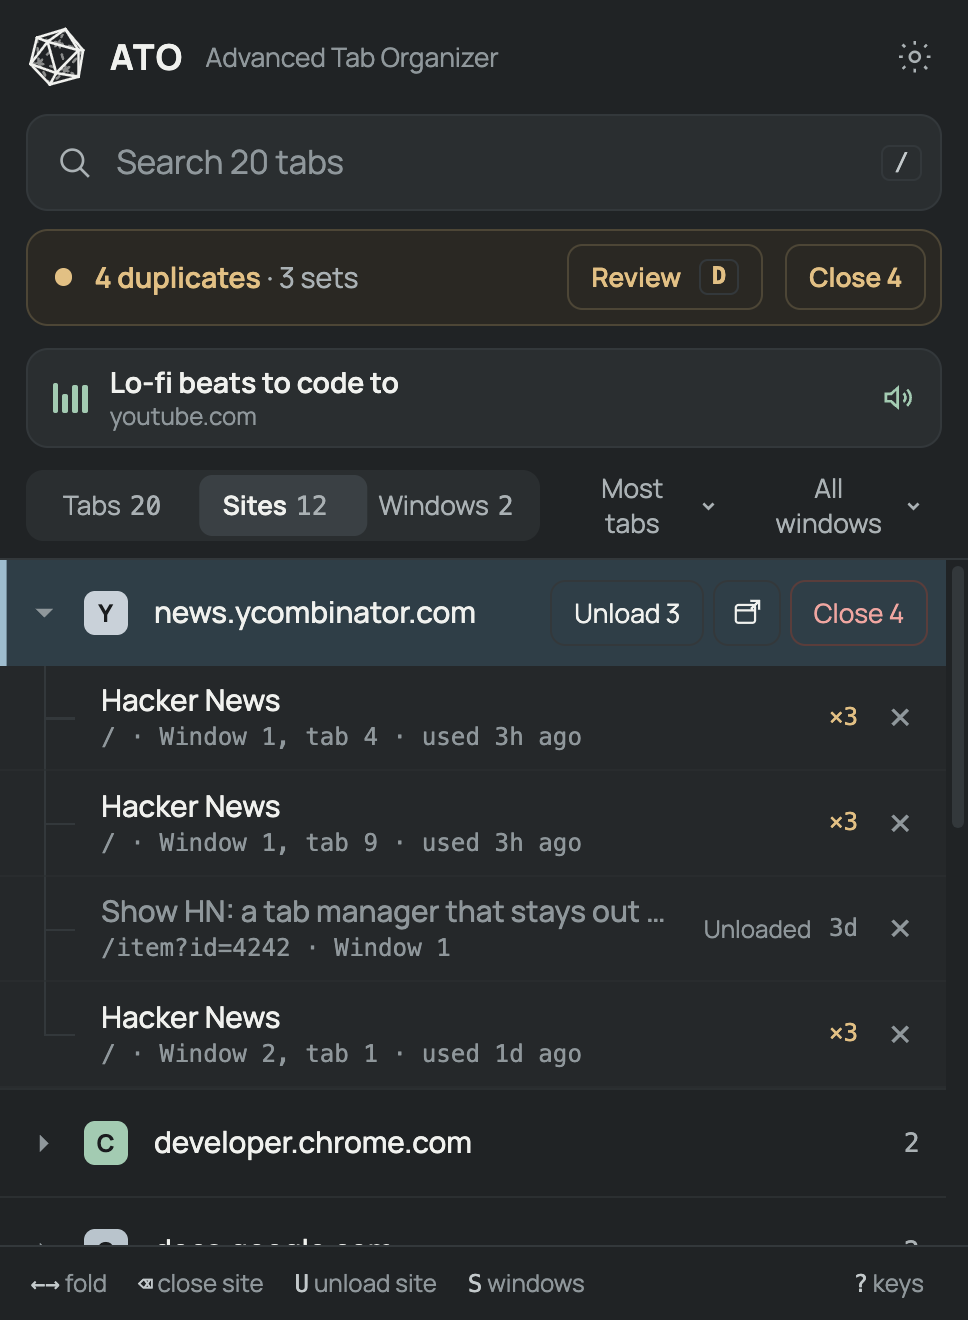
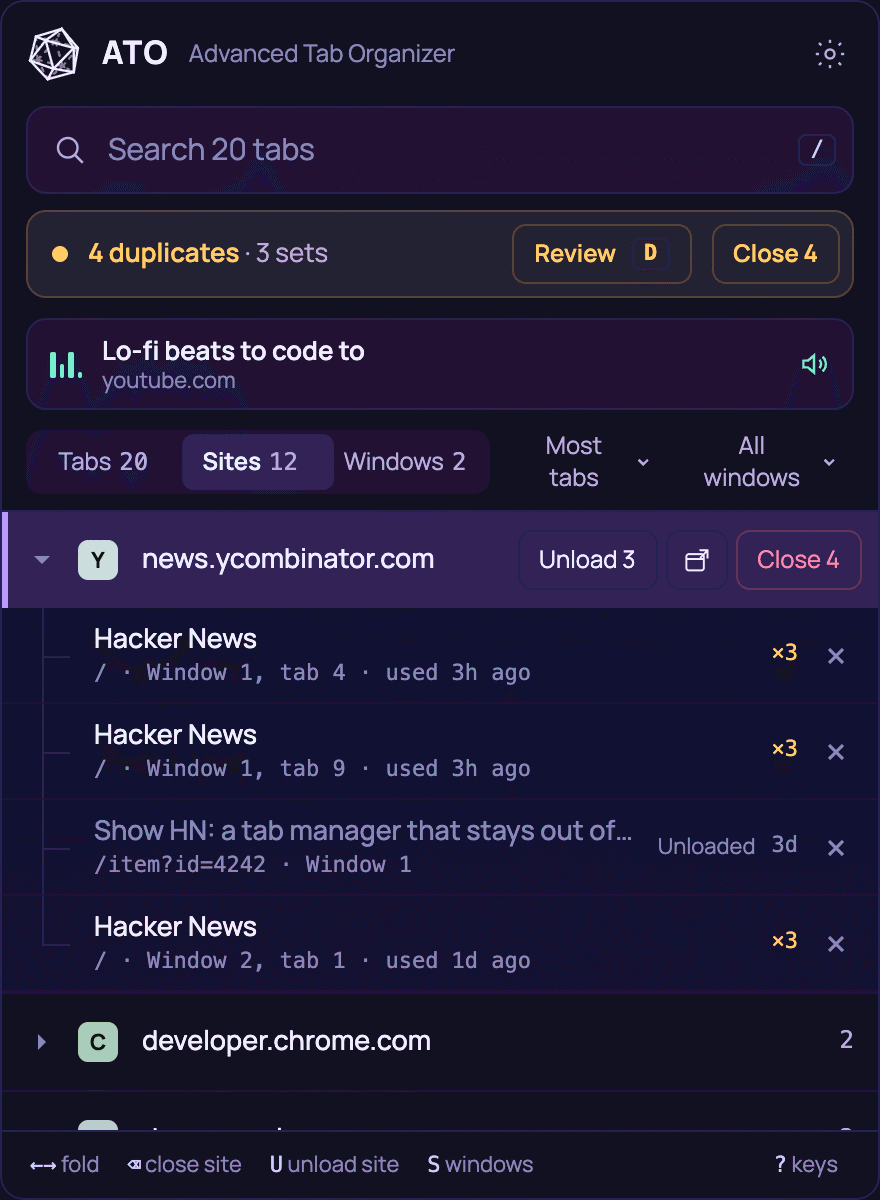
docs: README built around what ATO is for, with fresh screenshots of 3.0.1
New captures from the dev gallery in a throwaway headless Chrome 158 (2x): Cyber tabs and duplicate review, Sites (Nebula), Windows (Paper), the theme picker, a search GIF typed key by key, and the settings logo spinning after a real drag. Stills are 256-colour PNGs (visually lossless here). Screenshots the README no longer uses are removed; the v3.0.0 tag keeps them.

diff --git a/README.md b/README.md
@@ -1,39 +1,96 @@
 # ATO - Advanced Tab Organizer
 
-Kill duplicate tabs instantly. Stay focused.
-
 <p align="center">
-  <img src="docs/screenshots/popup-dark.png" alt="ATO popup: search, the duplicates bar, Now playing, and the tab list" width="440">
+  <img src="docs/screenshots/cyber-tabs.png" alt="ATO in the Cyber theme: search, the duplicates bar, Now playing and the tab list, on a neon grid" width="360">
+  <img src="docs/screenshots/cyber-review.png" alt="Duplicate review in Cyber: each page with its copies, a green KEEP or red CLOSE on each, and the reason a copy stays (pinned, current tab, oldest)" width="360">
 </p>
 
-ATO is a Chrome extension for people with too many tabs. Open it with **⌘U** (Mac) or **Ctrl+U** (Windows/Linux), see how many duplicates you have, and close them, safely, in one go. Everything runs in your browser: no analytics, tracking or backend, and your tabs never leave it.
+I keep far too many tabs open. The same docs page ends up open three times in two windows, a video plays somewhere I can't find, and Chrome's tab strip turns into a row of identical favicons. ATO is the popup I built for that: press **⌘U** (Ctrl+U on Windows and Linux), see everything across every window, and clean it up from the keyboard without losing anything I meant to keep.
 
-Requires **Chrome 157 or newer**.
+It's a Chrome extension, it needs **Chrome 157 or newer**, and it runs entirely in your browser: no analytics, tracking or backend.
 
-## What it does
+## What I use it for
 
-- **Duplicates, safely.** The bar at the top counts extra copies; **Close N** closes them, or **Review** shows each page with its copies, which one stays and why. The current tab, tabs playing sound, tabs in a split view, pinned tabs and (optionally) grouped tabs are never closed. Flip any copy between keep and close, close one page's copies, or all of them.
-- **Matching your way.** Copies are the same URL, or the same URL ignoring its `#hash`, its `?query`, or both.
-- **Tabs, Sites and Windows.** Every tab by recency, title or site; every site with its tabs; every window with a map of its tab strip and its tab groups. Merge a window into this one, move a site or a selection to a new window, unload what you're not using.
-- **Search.** Type to search titles and URLs across every window. `"exact"` matches whole words; `url:`, `title:` and `dupe:` narrow it.
-- **Now playing.** Tabs making sound, with mute.
-- **Undo.** Bring back what you closed, however many tabs: recent ones with their history, the rest reopened where they were, in their tab group.
-- **Toolbar badge** with the duplicate count (or all tabs), in your colour.
-- **Tab right-click menu:** close duplicates of this tab, or other tabs from this site. Open the popup within a minute to undo it.
-- **Nine themes**, light and dark, or follow your system.
+**"I have the same page open five times."** The bar at the top counts the extra copies. **Close N** closes them; **Review** first shows each page with its copies, which one stays and why (current tab, playing, pinned, in a split view, or simply the oldest). Flip any copy between keep and close, or close one page's copies at a time. What counts as "the same page" is up to you: the whole URL, or ignoring its `#hash`, its `?query`, or both.
 
-## Screenshots
+**"Where was that tab?"** Start typing. Search covers titles and URLs in every window and highlights what matched; ↑↓ and ↵ take you there. `"quotes"` match whole words, and `url:`, `title:` and `dupe:` narrow the search. Whatever it finds can be closed, unloaded or moved to a new window in one go.
 
 <p align="center">
-  <img src="docs/screenshots/duplicate-review.png" alt="Duplicate review: each page with its copies, keep or close" width="360">
-  <img src="docs/screenshots/windows.png" alt="Windows view: a map of each window's tab strip and groups" width="360">
-</p>
-<p align="center">
-  <img src="docs/screenshots/sites.png" alt="Sites view: a site opened to show its tabs" width="360">
-  <img src="docs/screenshots/popup.png" alt="Paper theme" width="360">
+  <img src="docs/screenshots/search.gif" alt="Typing “chrome” filters the list across both windows with matches highlighted; ↓ moves the cursor; then url:github turns url: into a chip and searches URLs only" width="400">
 </p>
 
-[Settings page](docs/screenshots/settings.png).
+**"Which tab is making that noise?"** **Now playing** lists tabs playing sound, in any window, with a mute button. Its equalizer bars rest while a tab is muted.
+
+**"My windows are a mess."** **Sites** groups tabs by site, so a whole site can be closed, unloaded or moved to its own window. **Windows** shows each window as a little map of its tab strip: one dot per tab, tab groups outlined in their colour, collapsed groups as a pill. From there you can focus a window, merge it into the current one (groups stay groups), or close it, and protected tabs stay.
+
+<p align="center">
+  <img src="docs/screenshots/sites.png" alt="Sites view in the Nebula theme: news.ycombinator.com opened to show its tabs, with Unload, Move and Close for the whole site" width="360">
+  <img src="docs/screenshots/windows.png" alt="Windows view in the Paper theme: each window with a dot map of its tab strip, tab groups outlined, and Focus, Merge and Close" width="360">
+</p>
+
+**"Chrome is using too much memory."** **Unload** (U) discards a tab, a site, a selection or search results: they stay in the strip and reload when you visit them.
+
+**"I want to do this without the mouse."** Everything has a key. ↑↓ wrap around, ←→ fold, ⌫ closes whatever the cursor is on, Space selects, ⌘D opens the duplicate review and ⌘D again closes them all, and `?` lists every shortcut. The footer always shows the keys that work right now.
+
+Also: a toolbar badge with the duplicate count (or all tabs) in your colour, and a tab right-click menu to close the duplicates of a tab or the other tabs from its site.
+
+## Nine themes, and one that glows
+
+<p align="center">
+  <img src="docs/screenshots/themes.png" alt="The settings page's theme picker: System, Graphite, Paper, Cyber (selected, glowing), Nebula, Ember, Neon, Lagoon, Sakura and Dune, each as a miniature popup in its own colours" width="480">
+</p>
+
+Graphite and Paper are the quiet ones, and **System** switches between them with your OS. Nebula, Ember, Neon, Lagoon, Sakura and Dune each have their own palette, and the picker previews every theme as a tiny popup in its own colours.
+
+**Cyber** goes further than a palette: neon on near-black over a faint grid, glowing edges, text and focus rings, scanlines across the popup, and a pulsing dot on the duplicates bar. All of that is plain CSS scoped to the theme, and it respects reduced motion.
+
+<img src="docs/screenshots/logo-spin.gif" alt="The ATO logo, a wireframe icosahedron with solid front edges and dashed hidden edges, spinning after a drag and slowing down" width="192" align="right">
+
+The logo on the settings page is a real 3D icosahedron built from 20 CSS triangles, each placed with a `matrix3d`. Edges facing you are solid, hidden edges are dashed. It turns slowly on its own; drag it to spin it, let go mid-swipe and it keeps going, easing back to the slow turn over a few seconds. The small logo in the popup's header is a static SVG rendered from the same geometry.
+
+<br clear="right">
+
+## Built to stay fast
+
+ATO is vanilla TypeScript with no UI framework, so keeping it quick with thousands of tabs is my job:
+
+- **A custom DOM morph** (`ui/morph.ts`) patches the live DOM in place by key, so focus, scroll position, typing and CSS transitions survive every render.
+- **A cursor fast path:** moving the cursor (↑↓ or hovering) changes only two rows, so `app.ts` patches those two instead of rendering.
+- **Memoized view models:** states are immutable, so each one's model is derived once and cached.
+- **Drawing less:** search draws the first 150 results (actions still cover all of them), and long lists use `content-visibility`.
+- **Benchmarks:** `npm run perf` times every hot path at 500 to 5,000 generated tabs. At 2,000 tabs, moving the cursor costs about 2 ms and a keystroke in search about 7 ms of script.
+
+Measured in real Chrome at 2,000 tabs, ↓ renders within a frame (median 7.6 ms, p95 11 ms). Typing in search doesn't yet: about 28 ms per keystroke, and more on a slow machine or at 5,000 tabs. The traces point at re-parsing icon SVGs and URL parsing, and fixing that is planned for 3.1. The numbers and traces are in [docs/v3-status.md](docs/v3-status.md#301-measurements).
+
+## Careful about what it closes
+
+Closing the wrong tab is the one thing a tab manager must not do, so the rules live in a small pure core and are tested as properties rather than examples:
+
+- The current tab of a window, a tab playing sound and a tab in a split view are never closed by cleanup; pinned and grouped tabs are protected too, by default.
+- Every duplicate set keeps a copy, and only real duplicates under your matching are closed.
+- The 180 ms close animation is decorative: right before removing anything, ATO reads Chrome's tabs again and rechecks every rule. A tab that started playing in the meantime stays, and so does a copy of a page whose planned survivor you closed.
+- **Undo** (⌘Z) brings back what was closed, however many tabs: the last 25 from Chrome's session history, with their back/forward history; older ones are reopened in their window, position and tab group. It runs in the background, so closing the popup doesn't interrupt it.
+
+The safety rules are [fast-check](https://fast-check.dev) properties over generated browser states. Each one also gets a mutation check: remove the guard and confirm the property fails. The undo and close paths were also checked in a real Chrome with a throwaway profile.
+
+## How it works
+
+- **Pure core** (`src/core/`): plain functions over plain data, no DOM or Chrome. It decides what may be closed (duplicate planning, URL matching, protection) and holds search, settings and the badge count.
+- **State machine** (`src/ui/update.ts`): `update(state, action)` returns the next state and a list of effects (close, restore, move…). It never touches the browser itself.
+- **Rendering:** `deriveModel` turns the browser snapshot and UI state into a view model, `renderPopup` draws it as a pure function, and `morph` patches the page.
+- **Chrome integration:** only `src/ui/chrome-*.ts` and the service worker call `chrome.*`. Every close and undo runs in the worker through one path. The popup talks to Chrome through a `BrowserPort` interface, so the dev gallery and the tests run it over an in-memory `FakeBrowser`.
+
+```
+src/
+├── manifest.json
+├── background/worker.ts   # badge, tab right-click menu, closing and undo
+├── core/                  # pure rules: duplicates, matching, search, settings, badge, menu
+├── ui/                    # popup state machine, render, Chrome adapters, settings page
+├── popup/ options/        # extension entry points
+└── dev/                   # gallery fixtures, fake browser, perf harness
+```
+
+Details, including how closing and undo work: [docs/architecture.md](docs/architecture.md).
 
 ## Keyboard
 
@@ -71,32 +128,12 @@ Then in Chrome: `chrome://extensions` → **Developer mode** → **Load unpacked
 ## Development
 
 ```bash
-npm run dev     # live gallery of every popup state + the settings page (Vite)
-npm test        # Vitest, including fast-check properties for the safety rules
+npm run dev     # live gallery: every popup state as a working popup, plus the settings page
+npm test        # Vitest, including the fast-check properties
 npm run perf    # timings at 500–5,000 tabs
 ```
 
-## How it works
-
-Vanilla TypeScript, built with Vite, no UI framework.
-
-- **Pure core** (`src/core/`): plain functions over plain data, no DOM or Chrome. It decides what may be closed (duplicate planning, URL matching, protection) and also holds search, settings and the badge count.
-- **State machine** (`src/ui/update.ts`): `update(state, action)` returns the next state and a list of effects (close, restore, move…). It never touches the browser itself.
-- **Rendering**: `deriveModel` turns the browser snapshot and UI state into a view model, `renderPopup` draws it as a pure function, and `morph` patches the live DOM in place, keeping focus and scroll.
-- **Chrome integration**: only `src/ui/chrome-*.ts` and the service worker call `chrome.*`. Every close and undo runs in the worker through one path, which rechecks protection on Chrome's current tabs right before removing anything. The popup talks to Chrome through a `BrowserPort` interface, so the gallery and tests run it over an in-memory `FakeBrowser`.
-- **Testing**: Vitest, with fast-check properties for the safety rules (never close the current tab, a playing tab or a split view; every duplicate set keeps a tab; only real duplicates close; protected tabs stay; undo brings each tab back at most once). Each property has a mutation check: remove the guard and the property fails.
-
-```
-src/
-├── manifest.json
-├── background/worker.ts   # badge, tab right-click menu, closing and undo
-├── core/                  # pure rules: duplicates, matching, search, settings, badge, menu
-├── ui/                    # popup state machine, render, Chrome adapters, settings page
-├── popup/ options/        # extension entry points
-└── dev/                   # gallery fixtures, fake browser, perf harness
-```
-
-Details, including how closing and undo work: [docs/architecture.md](docs/architecture.md). Conventions for contributors and coding agents: [AGENTS.md](AGENTS.md).
+Every screenshot here comes from the gallery. Contributions are welcome: [CONTRIBUTING.md](CONTRIBUTING.md) has the setup, and [AGENTS.md](AGENTS.md) the rules and conventions (for people and coding agents alike).
 
 ## Privacy
 
